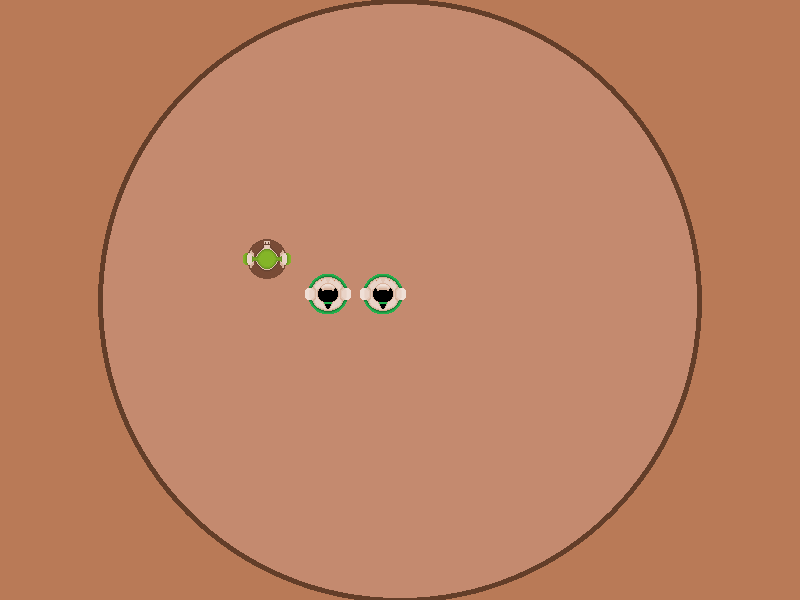
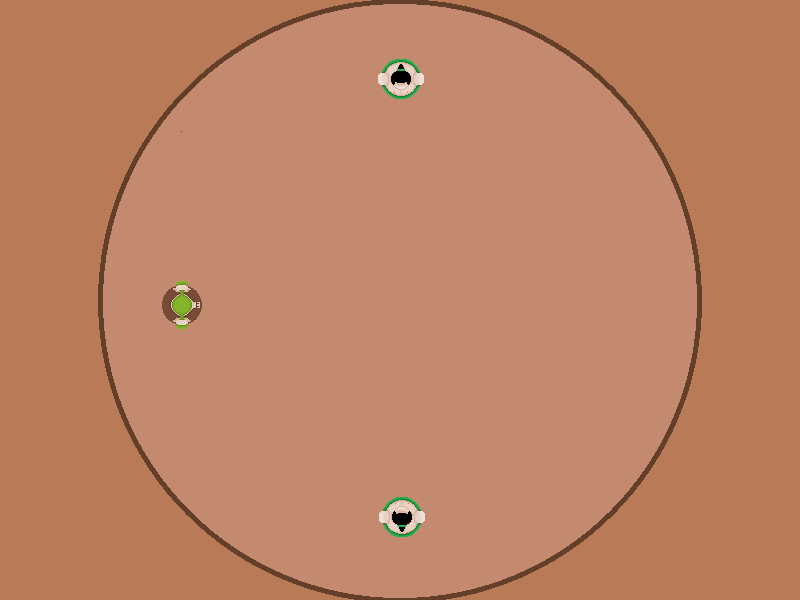
drawing with image

diff --git a/Rikishi.py b/Rikishi.py
@@ -3,19 +3,25 @@ from Vector import Vector2D
 from Circle import Circle
 from Position import Position2D
 import pygame
+import os
 
 class Rikishi(Circle):
     
     def __init__(self,
                  pos=Position2D(0,0),
                  r=20.0, #radius in pixels
-                 color = (155, 0, 0)
+                 color = (155, 0, 0),
+                 image_path = "rikishi_verde.png"
     ):
         self.Centre = pos           #(pixel, pixel)
         self.Radius = r             #pixel
         self.Speed  = Vector2D(0,0) #pixel/update
         self.Accel  = Vector2D(0,0) #pixel/update**2
         self.Color  = color
+        self.Image = pygame.image.load(os.path.join(image_path))
+
+    def convert_image ():
+        self.Image.convert()
 
     def accelToward(self, dir):
         if(not isinstance(dir, Direc)):
@@ -61,7 +67,7 @@ class Rikishi(Circle):
         self.Centre.Y += self.Speed.Y
 
     def render(self, screen):
-        pygame.draw.circle(screen, self.Color, self.Centre.toTuple(), int(self.Radius))
+        screen.blit(self.Image, (self.Centre.X - 23, self.Centre.Y - 20))
 
     def __str__(self):
         return "Rikishi at {};Radius = {}; Speed = {}; Acceleration = {}; Color = {}".format(

diff --git a/cliente.py b/cliente.py
@@ -42,7 +42,6 @@ def ouvir_do_serv():
             tipo = mes.split(":")[0]
             comando = mes.split(":")[1]
             aux_com = comando
-            
 
             if tipo == "rpos":
                 x_pos = float(aux_com.split("/")[1])
@@ -54,6 +53,7 @@ def ouvir_do_serv():
                 #print(comando)
                 aux = Rikishi(r = 60, pos=Position2D(0,0), color = (155,0,0))
                 aux.fromStr(comando.split("/")[1])
+                #aux.convert_image()
                 rikishis[comando.split("/")[0]] = aux
                 #print("rikishi inserido")
                 mandar_pro_serv("rec:1".encode())
